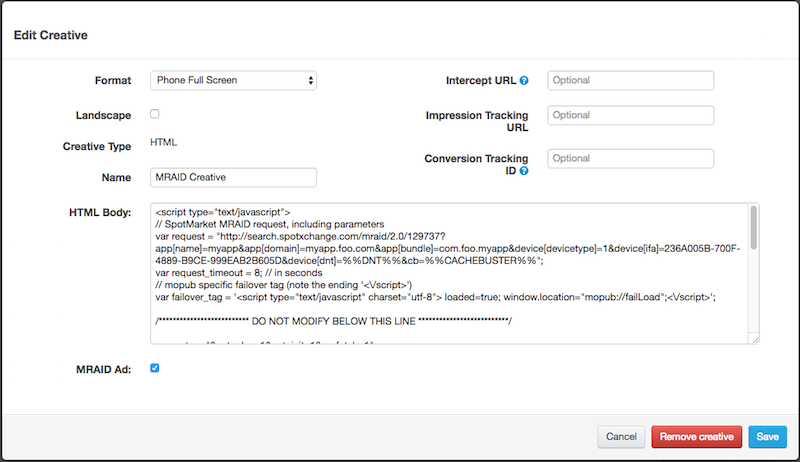
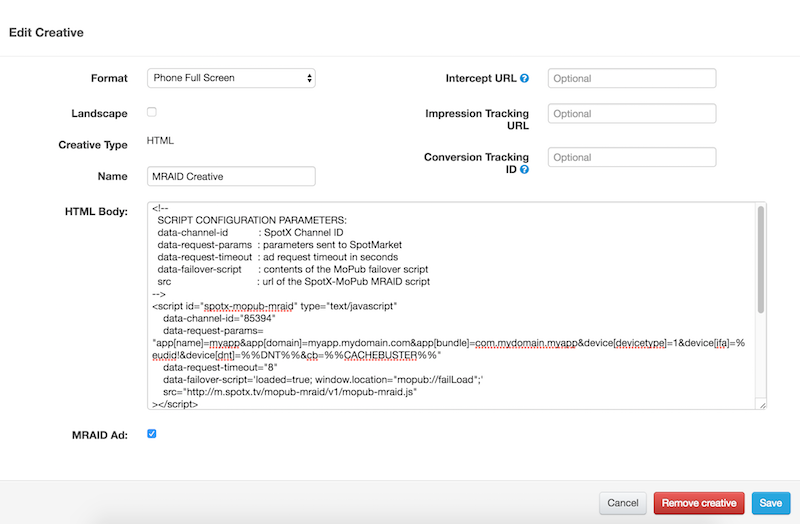
Moved contents of the MoPub MRAID script to a remote endpoint.

diff --git a/mraid.html b/mraid.html
@@ -1,92 +1,27 @@
-<script type="text/javascript">
-// SpotMarket MRAID request, including parameters
-var request = "http://search.spotxchange.com/mraid/2.0/REPLACE_CHANNEL_ID?app[name]=REPLACE_ME&app[domain]=REPLACE_ME&app[bundle]=REPLACE_ME&device[devicetype]=1&device[ifa]=REPLACE_ME&device[dnt]=%%DNT%%&cb=%%CACHEBUSTER%%";
-var request_timeout = 8; // in seconds
-// mopub specific failover tag (note the ending '<\/script>')
-var failover_tag = '<script type="text/javascript" charset="utf-8"> loaded=true; window.location="mopub://failLoad";<\/script>';
-
-/************************** DO NOT MODIFY BELOW THIS LINE **************************/
-
-request += "&autoplay=1&autoinit=1&prefetch=1";
-
-// failover method called when an ad network error occurs (no ad available)
-function _failover() {
-  // this tag is specific to MoPub (https://dev.twitter.com/mopub/ui-setup/custom-networks)
-  document.head.innerHTML = failover_tag;
-  document.write(document.documentElement.outerHTML);
-  document.close();
-}
-
-// VPAID error handler setup (in case of VPAID opt-out)
-(function () {
-  var impressed = false;
-  function waitFor(name, callback) {
-    // wait for the named object to be available
-    var id = window.setInterval(function () {
-      if (typeof window[name] !== "undefined") {
-        window.clearInterval(id);
-        callback();
-      }  
-    }, 50);
-  }
-  // wait for the page to finish loading before looking for the mraid and oAdOS objects
-  window.addEventListener("load", function load() {
-    window.removeEventListener("load", load, false);
-    waitFor("mraid", function() {
-      mraid.addEventListener("ready", function () {
-        waitFor("oAdOS", function () {
-          // subscribe to the the "AdError" event
-          oAdOS.subscribe(function () {
-            if (!impressed) {
-              // AdError fired and AdImpression not yet fired - call the failover method
-              _failover()              
-            }
-          }, "AdError");
-          oAdOS.subscribe(function () {
-            impressed = true;
-          }, "AdImpression");    
-        });
-      });
-    });
-  }, false);
-})();
-</script>
-<script id="spotx-loader" type="text/javascript">
-// This script block will be removed after the initial request to SpotMarket
-(function() {
-  // wait for the the initial page to finish loading before making the SpotMarket request
-  window.addEventListener("load", function load() {
-    window.removeEventListener("load", load, false);
-    var httpRequest = new XMLHttpRequest();
-    // setup a timeout handler - calls the failover if a timeout occurs
-    httpRequest.timeout = request_timeout * 1000;
-    httpRequest.ontimeout = _failover;
-    httpRequest.onreadystatechange = function() {
-      if (4 == httpRequest.readyState) {
-        if (200 == httpRequest.status || 304 == httpRequest.status) {
-          // response received - create a html document
-          var doc = document.implementation.createHTMLDocument("");
-          // remove the DOCTYPE tag (if any) and insert the response into the document
-          doc.documentElement.innerHTML = httpRequest.responseText.replace(/^<!DOCTYPE.*>/, "");
-          // extract the script tags from the response and insert them into the current document
-          Array.prototype.slice.call(doc.getElementsByTagName("script")).forEach(function (element) {
-            document.head.appendChild(document.importNode(element, true));
-          });
-          // remove this script tag from current document
-          var script = document.getElementById("spotx-loader");
-          script.parentNode.removeChild(script);
-          // rewrite the document
-          document.write(document.documentElement.outerHTML);
-          document.close();
-        }
-        else {
-          // all other http statuses cause a failover
-          _failover();
-        }      
+<!--
+  SCRIPT CONFIGURATION PARAMETERS:
+  data-channel-id      : SpotX Channel ID
+  data-request-params  : parameters sent to SpotMarket
+  data-request-timeout : ad request timeout in seconds
+  data-failover-script : contents of the MoPub failover script
+  src                  : url of the SpotX-MoPub MRAID script
+-->
+<script id="spotx-mopub-mraid" type="text/javascript"
+    data-channel-id="REPLACE_CHANNEL_ID"
+    data-request-params="app[name]=REPLACE_ME&app[domain]=REPLACE_ME&app[bundle]=REPLACE_ME&device[devicetype]=1&device[ifa]=%eudid!&device[dnt]=%%DNT%%&cb=%%CACHEBUSTER%%"
+    data-request-timeout="8"
+    data-failover-script='loaded=true; window.location="mopub://failLoad";'
+    src="http://m.spotx.tv/mopub-mraid/v1/mopub-mraid.js"
+></script>
+<!-- ************************** DO NOT MODIFY BELOW THIS LINE ************************** -->
+<script id="spotx-mopub-do-not-modify" type="text/javascript"
+  data-src-timeout="5">
+  (function () {
+    // check for the loading of the spotx-mopub-mraid.js script - failover if not loaded
+    window.setTimeout(function () {
+      if (!window["_spotx_mopub_loaded"]) {
+        eval(document.getElementById("spotx-mopub-mraid").getAttribute("data-failover-script"));
       }
-    }; 
-    httpRequest.open("GET", request, true);
-    httpRequest.send();
-  }, false);  
-})();
+    }, 1000 * document.getElementById("spotx-mopub-do-not-modify").getAttribute("data-src-timeout"));
+  })();
 </script>

diff --git a/README.md b/README.md
@@ -1,15 +1,9 @@
 # SpotX - MoPub MRAID Creative Script
 
 The SpotX MoPub MRAID creative script should be used to create MRAID creatives in the MoPub interface.
-
-There are two versions of the script in this repository:
-
-  * `mraid.html` (verbose)
-  
-  * `mraid.min.html` (minified)
-
-Both scripts contain identical functionality.  The `mraid.min.html` file has been minified
-using [UglifyJS2](https://github.com/mishoo/UglifyJS2). 
+The `mraid.html` file in this repository contains the entire script necessary to define a MoPub MRAID creative.
+The script acts as a "loader", which will handle making the request to the SpotX network to obtain a
+proper MRAID compliant advertisement.
 
 ##Usage
 To use the script, copy the *entire* text from a script file into the `'HTML Body'` section
@@ -20,35 +14,39 @@ since the functionality is identical.
 
 > Always make sure to check the `'MRAID Ad'` option.
 
-To customize the script you should only edit the first few lines.
-```javascript
-// SpotMarket MRAID request, including parameters
-var request = "http://search.spotxchange.com/mraid/2.0/123456?app[name]=myapp&app[domain]=myapp.foo.com&app[bundle]=com.foo.myapp&device[devicetype]=1&device[ifa]=%eudid!&device[dnt]=%%DNT%%&cb=%%CACHEBUSTER%%";
-var request_timeout = 8; // in seconds
-// mopub specific failover tag (note the ending '<\/script>')
-var failover_tag = '<script type="text/javascript" charset="utf-8"> loaded=true; window.location="mopub://failLoad";<\/script>';
+To customize the script you should only edit the `data-...` parameters of the `spotx-mopub-mraid` script tag.
+```html
+<script id="spotx-mopub-mraid" type="text/javascript"
+    data-channel-id="85394"
+    data-request-params="app[name]=myapp&app[domain]=myapp.mydomain.com&app[bundle]=com.mydomain.myapp&device[devicetype]=1&device[ifa]=%eudid!&device[dnt]=%%DNT%%&cb=%%CACHEBUSTER%%"
+    data-request-timeout="8"
+    data-failover-script='loaded=true; window.location="mopub://failLoad";'
+    src="http://m.spotx.tv/mopub-mraid/v1/mopub-mraid.js"
+></script>
 ```
-You should modify the `request` url with the SpotX Channel ID and the corresponding MRAID parameters.
-In the above example, the Channel ID is `123456`, and the parameters are the name value pairs after the
-`'?'` in the url. For more information see the section: [SpotMarket MRAID Request Parameters](#spotmarket-mraid-request-parameters) 
 
-The `request_timeout` value is the number of seconds to wait for a response from SpotX.  In the above
-example the value is set to `8` seconds.
+| Parameter              | Description |
+|------------------------|-------------|
+|`data-channel-id`       | The SpotX Channel ID to use for the SpotMarket request. |
+|`data-request-params`   | Name value pairs after the `'?'` in the SpotMarket request url. |
+|`data-request-timeout`  | The number of seconds to wait for the SpotMarket request to complete. |
+|`data-failover-script`  | The MoPub script called when a failover condition occurrs.<br/><br/>**Do not modify this parameter**, unless there are changes to the current MoPub MRAID container specification - see the Failover tag section in the MoPub Custom Networks document. |
+|`src`                   | The url to the `spotx-mopub-mraid.js` script file.<br/><br/>**Do not modify this parameter**, unless the location or version of the script file changes. |
 
-The `failover_tag` variable contains the custom `<script>` tag used by MoPub to indicate a failover condition.
-Do not modify this variable, unless there are changes to the current MoPub MRAID container
-specification - see the *Failover tag* section in the [MoPub Custom Networks](https://dev.twitter.com/mopub/ui-setup/custom-networks)
-document.
 
-In the current `mraid.html` and `mraid.min.html` files you must update the `var request = ...` parameter with the proper information. 
-```javascript
-var request = "http://search.spotxchange.com/mraid/2.0/REPLACE_CHANNEL_ID?app[name]=REPLACE_ME&app[domain]=REPLACE_ME&app[bundle]=REPLACE_ME&device[devicetype]=1&device[ifa]=%eudid!&device[dnt]=%%DNT%%&cb=%%CACHEBUSTER%%";
+In the current `mraid.html` and `mraid.min.html` files you must update the `data-channel-id` and `data-request-params` parameters with the proper information. 
+```html
+<script id="spotx-mopub-mraid" type="text/javascript"
+  data-channel-id="REPLACE_CHANNEL_ID"
+  data-request-params="app[name]=REPLACE_ME&app[domain]=REPLACE_ME&app[bundle]=REPLACE_ME&device[devicetype]=1&device[ifa]=%eudid!&device[dnt]=%%DNT%%&cb=%%CACHEBUSTER%%";
+    ...
+></script>
 ```
 You must replace the `REPLACE_CHANNEL_ID` text with the SpotX Channel ID you want to syndicate, and the `REPLACE_ME` text
 with the proper values, described in the [SpotMarket MRAID Request Parameters](#spotmarket-mraid-request-parameters) section.
 
 ##SpotMarket MRAID Request Parameters
-The SpotMarket MRAID url contains several parameters that must be specified in order to create the proper MRAID response.  When creating the url, you may also use
+The SpotMarket MRAID url contains several parameters (specified in the `data-request-params` parameter) that must be specified in order to create the proper MRAID response.  When creating the url, you may also use
 macros provided by MoPub for the parameter values.  These macros will be substituted with their corresponding values when the script is obtained by the client's MRAID container.
 For more information about the MoPub Macros, check out the [MoPub Documentation](https://dev.twitter.com/mopub/ui/macros). 
 The following table contains the currently supported parameters:
@@ -87,7 +85,7 @@ values may not occur if the MRAID container app does not provide location servic
 
 ###SpotX Custom Parameters
 There are additional parameters that are custom to SpotX.  These parameters are required, and will be automatically appended to the SpotMarket request url.
-You should not specify these parameters.  The details of these parameters are provided here for completeness.
+**You should not specify these parameters.**  The details of these parameters are provided here for completeness.
 
 |Parameter              | Description | Default Usage |
 |-----------------------|-------------|---------------|
